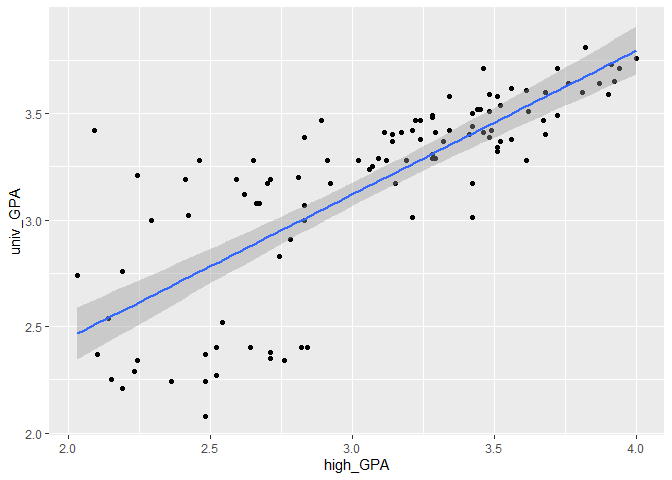
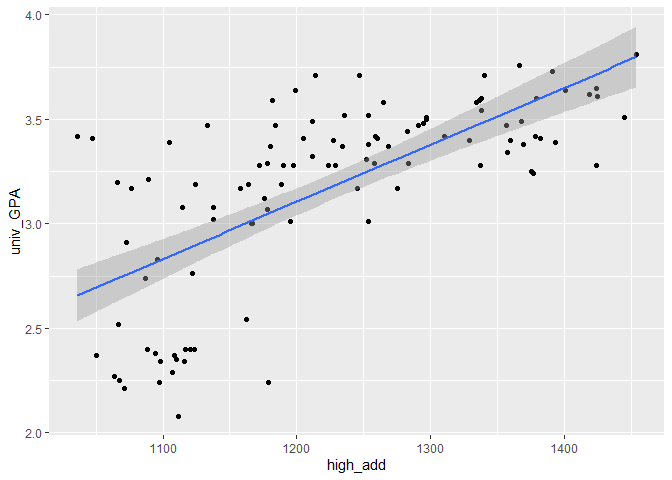
c10

diff --git a/challenges/c10-sat-assignment.md b/challenges/c10-sat-assignment.md
@@ -422,13 +422,13 @@ cor.test(df_boot$high_GPA, df_boot$univ_GPA)
     ##  Pearson's product-moment correlation
     ## 
     ## data:  df_boot$high_GPA and df_boot$univ_GPA
-    ## t = 402.24, df = 104998, p-value < 2.2e-16
+    ## t = 399.68, df = 104998, p-value < 2.2e-16
     ## alternative hypothesis: true correlation is not equal to 0
     ## 95 percent confidence interval:
-    ##  0.7763522 0.7811133
+    ##  0.7743774 0.7791752
     ## sample estimates:
-    ##      cor 
-    ## 0.778744
+    ##       cor 
+    ## 0.7767876
 
 **Observations**:
 
@@ -531,9 +531,9 @@ df_composite %>%
 
 - What is the confidence interval on the coefficient of `both_SAT`? Is
   this coefficient significantly different from zero?
-  - (Your response here) The difference in `conf.low` and `conf.high`
-    for `both_SAT` in the model is \~0.0013, which I deem the difference
-    from zero as insignificant.
+  - (Your response here) \[`conf.low` \~= 0.0019, `conf.high` \~=
+    0.0034\] The coefficient is in an interval where it is significantly
+    nonzero.
 - By itself, how well does `both_SAT` predict `univ_GPA`?
   - (Your response here) With the plotted model, the trend is definitely
     present in the regression line. However, there seem to be many
@@ -547,8 +547,12 @@ further.
 
 ``` r
 ## TODO: Fit and assess models with predictors both_SAT + high_GPA, and high_GPA alone
+#--------------------- both_SAT + high_GPA
+df_composite <- df_composite %>% 
+  mutate(high_add = both_SAT + high_GPA)
+
 df_composite %>% 
-  ggplot(aes(x = high_GPA, y = univ_GPA)) +
+  ggplot(aes(x = high_add, y = univ_GPA)) +
   geom_point() +
   geom_smooth(method = "lm")
 ```
@@ -558,11 +562,26 @@ df_composite %>%
 ![](c10-sat-assignment_files/figure-gfm/q7-task-1.png)<!-- -->
 
 ``` r
-df_composite <- df_composite %>% 
-  mutate(high_prod = (high_GPA^5)*both_SAT)
+fit_add <- lm(univ_GPA ~ high_add, data = df_composite)
+
+fit_add %>%
+  tidy(
+    conf.int = TRUE,
+    conf.level = 0.99
+  )
+```
+
+    ## # A tibble: 2 × 7
+    ##   term        estimate std.error statistic  p.value conf.low conf.high
+    ##   <chr>          <dbl>     <dbl>     <dbl>    <dbl>    <dbl>     <dbl>
+    ## 1 (Intercept) -0.174    0.351       -0.494 6.22e- 1 -1.10      0.749  
+    ## 2 high_add     0.00273  0.000286     9.56  6.91e-16  0.00198   0.00348
+
+``` r
+#--------------------- high_GPA
 
 df_composite %>% 
-  ggplot(aes(x = high_prod, y = univ_GPA)) +
+  ggplot(aes(x = high_GPA, y = univ_GPA)) +
   geom_point() +
   geom_smooth(method = "lm")
 ```
@@ -572,9 +591,9 @@ df_composite %>%
 ![](c10-sat-assignment_files/figure-gfm/q7-task-2.png)<!-- -->
 
 ``` r
-fit_both <- lm(univ_GPA ~ high_prod, data = df_composite)
+fit_high <- lm(univ_GPA ~ high_GPA, data = df_composite)
 
-fit_both %>%
+fit_high %>%
   tidy(
     conf.int = TRUE,
     conf.level = 0.99
@@ -582,21 +601,62 @@ fit_both %>%
 ```
 
     ## # A tibble: 2 × 7
-    ##   term           estimate    std.error statistic  p.value    conf.low  conf.high
-    ##   <chr>             <dbl>        <dbl>     <dbl>    <dbl>       <dbl>      <dbl>
-    ## 1 (Intercept) 2.75        0.0499            55.0 3.44e-78 2.62        2.88      
-    ## 2 high_prod   0.000000947 0.0000000884      10.7 1.92e-18 0.000000715 0.00000118
+    ##   term        estimate std.error statistic  p.value conf.low conf.high
+    ##   <chr>          <dbl>     <dbl>     <dbl>    <dbl>    <dbl>     <dbl>
+    ## 1 (Intercept)    1.10     0.167       6.58 1.98e- 9    0.660     1.53 
+    ## 2 high_GPA       0.675    0.0534     12.6  1.18e-22    0.535     0.815
+
+``` r
+#--------------------- 0.00329 * high_GPA^1.3 * both_SAT^0.7 + 1
+
+df_composite <- df_composite %>% 
+  mutate(high_prod = 0.00329 * high_GPA^1.3 * both_SAT^0.7 + 1)
+
+df_composite %>% 
+  ggplot(aes(x = high_prod, y = univ_GPA)) +
+  geom_point() +
+  geom_smooth(method = "lm")
+```
+
+    ## `geom_smooth()` using formula = 'y ~ x'
+
+![](c10-sat-assignment_files/figure-gfm/q7-task-3.png)<!-- -->
+
+``` r
+fit_both_powers <- lm(univ_GPA ~ high_prod, data = df_composite)
+
+fit_both_powers %>%
+  tidy(
+    conf.int = TRUE,
+    conf.level = 0.99
+  )
+```
+
+    ## # A tibble: 2 × 7
+    ##   term        estimate std.error statistic  p.value conf.low conf.high
+    ##   <chr>          <dbl>     <dbl>     <dbl>    <dbl>    <dbl>     <dbl>
+    ## 1 (Intercept)    1.21     0.156       7.80 5.31e-12    0.805     1.62 
+    ## 2 high_prod      0.635    0.0496     12.8  5.23e-23    0.505     0.765
 
 **Observations**:
 
 - How well do these models perform, compared to the one you built in q6?
-  - (Your response here)
+  - (Your response here) For simply adding, the linear model does not
+    seem to make a significant difference. However, for using `high_GPA`
+    for the predictor, `std.error` for the `(Intercept)`, which the
+    scale should not change as `univ_GPA` is a fixed scale, have a
+    smaller value compared to the one in q6. This is an indicator that
+    the model here may perform better than the one built in q6. Also,
+    applying different computations to include `high_GPA` and `both_SAT`
+    may alter how well the model performs, from looking at the last
+    model.
 - What is the confidence interval on the coefficient of `both_SAT` when
   including `high_GPA` as a predictor?? Is this coefficient
   significantly different from zero?
-  - (Your response here)
+  - (Your response here) \[`conf.low` \~= 0.0019, `conf.high` \~=
+    0.0034\] The coefficient is significantly nonzero.
 - How do the hypothesis test results compare with the results in q6?
-  - (Your response here)
+  - (Your response here) $$\beta \neq 0$$
 
 ## Synthesize
 
@@ -610,11 +670,20 @@ Before closing, let’s synthesize a bit from the analyses above.
 
 - Between `both_SAT` and `high_GPA`, which single variable would you
   choose to predict `univ_GPA`? Why?
-  - (Your response here)
+  - (Your response here) If I had to choose one, I would choose
+    `high_GPA`, as they exhibit similar distribution patterns as seen
+    from histograms.
 - Is `both_SAT` an effective predictor of `univ_GPA`? What specific
   pieces of evidence do you have in favor of `both_SAT` being effective?
   What specific pieces of evidence do you have against?
-  - (Your response here)
+  - (Your response here) It boils down to what one would deem as “an
+    effective predictor”. From visualizations of the linear model
+    generated by `both_SAT`, it clearly shows that there is a trend
+    among the data points. However, more points were outside the
+    confidence interval of the linear model than were inside, some
+    performing better than expected by the model, some worse. If one
+    wanted a rough estimate, it will be an effective predictor. However,
+    for more specific purposes, it will not be as effective.
 
 # End Notes
 
